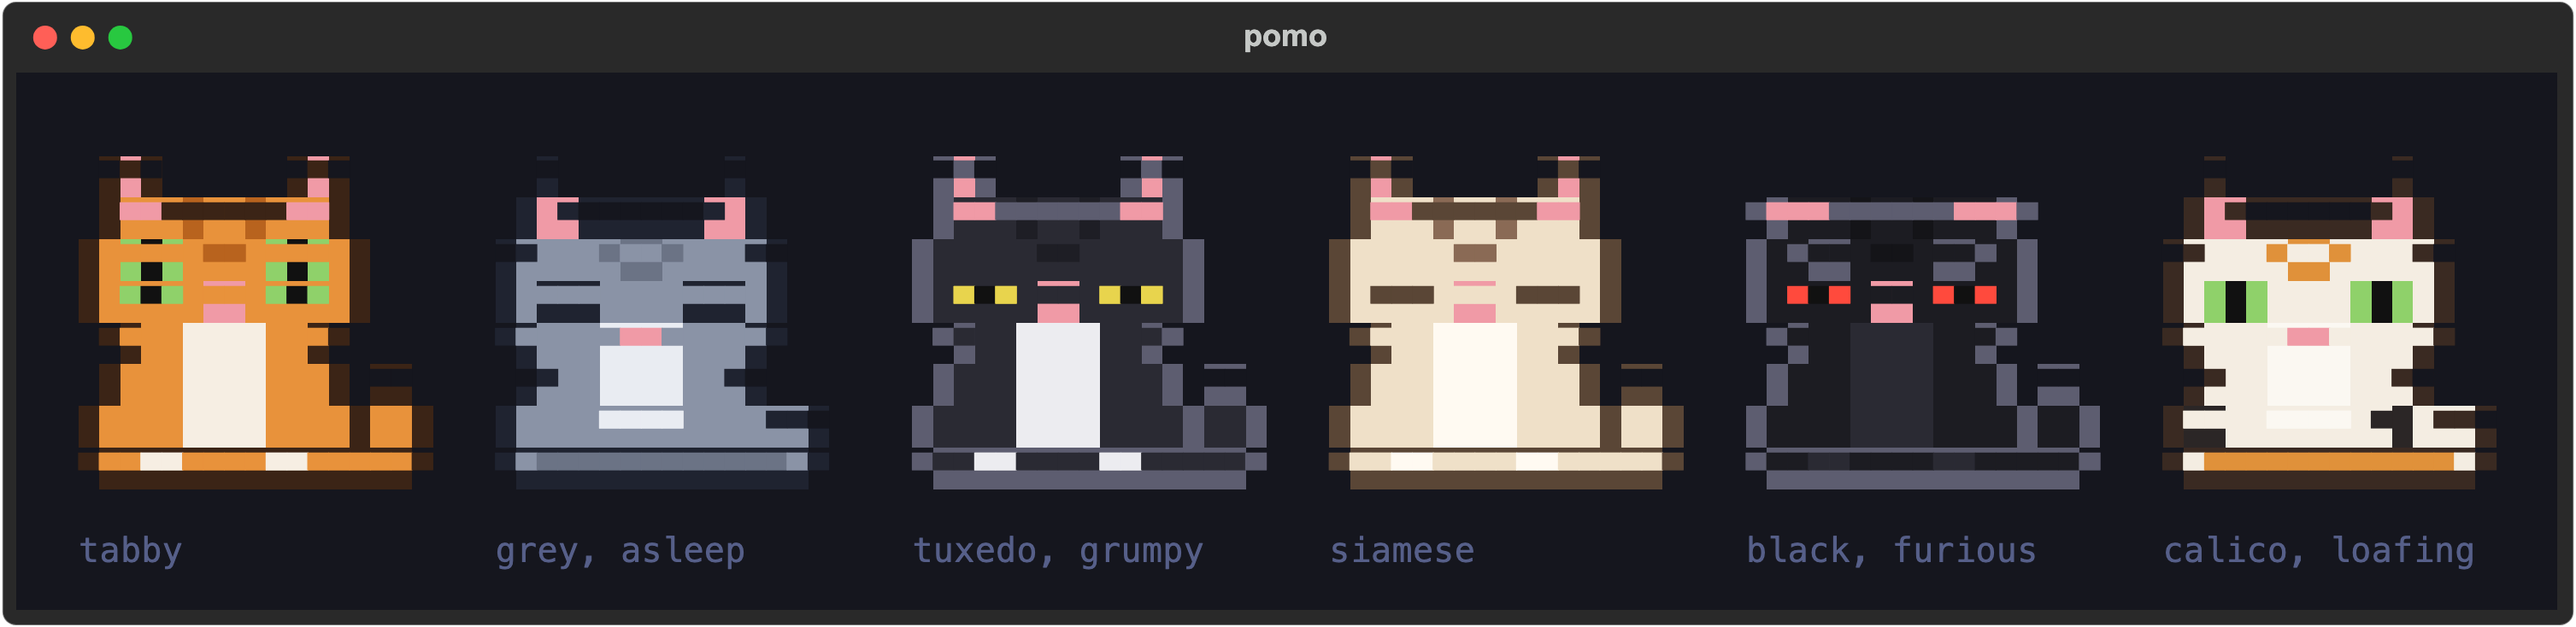
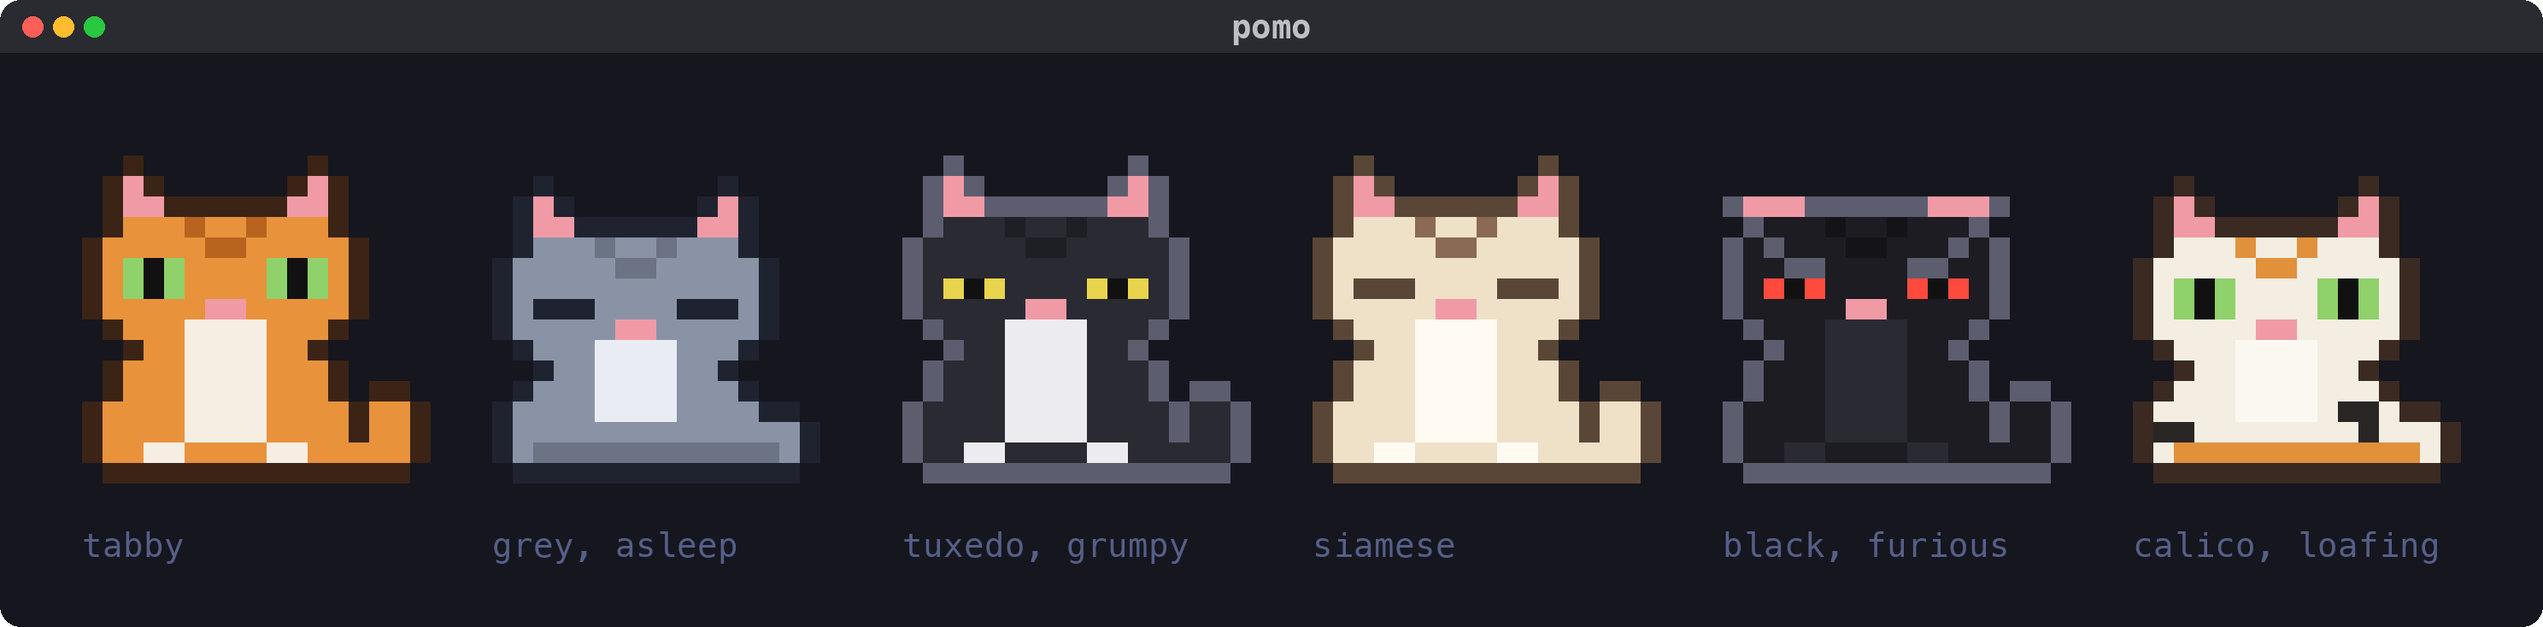
docs: paint the screenshots cell by cell, so the pixel art has no seams
The SVG export drew half-blocks as text, and the rows didn't quite meet: thin lines through every sprite. scripts/screenshots.py now reads the screen as cells and paints them with Pillow, so each half-block is an exact square. No Chrome needed.

diff --git a/scripts/screenshots.py b/scripts/screenshots.py
@@ -1,46 +1,66 @@
 """Render the README's screenshots and GIF from the real app, into docs/images/.
 
-    uv run python scripts/screenshots.py
+    uv run --with pillow python scripts/screenshots.py
 
 Each scene drives PomoApp headlessly with a fake clock and a seeded random number
-generator, so the pictures come out the same every time. Textual exports each frame
-as an SVG, headless Google Chrome turns the SVGs into PNGs, and ffmpeg and gifsicle
-make the GIF. Needs Google Chrome, ffmpeg and gifsicle (brew install ffmpeg gifsicle).
-Nothing here touches your own config or save: no save path is given to the app.
+generator, so the pictures come out the same every time. The screen is read back as
+terminal cells and painted here with Pillow: half-block characters become exact squares
+of colour, so the pixel art has no seams. Text uses Menlo and emoji Apple Color Emoji
+(macOS fonts); gifsicle, if installed, shrinks the GIF. Nothing here touches your own
+config or save: the app is never given a save path.
 """
 
 from __future__ import annotations
 
 import asyncio
+import io
 import random
-import re
 import shutil
 import subprocess
 import sys
-import tempfile
-import time
 from collections.abc import Awaitable, Callable
+from dataclasses import dataclass
+from functools import cache
 from pathlib import Path
 
+from PIL import Image, ImageDraw, ImageFont
+from rich.cells import cell_len
+from rich.console import Console
+from rich.segment import Segment
 from textual.app import App, ComposeResult
 
 import pomo.ui.app as app_module
-from pomo.render import sprites, theme
-from pomo.render.canvas import Canvas
 from pomo.clock import FakeClock
 from pomo.config import Config
 from pomo.game.behavior import Doing
 from pomo.notify import NullNotifier
+from pomo.render import sprites, theme
+from pomo.render.canvas import Canvas
 from pomo.ui.app import PomoApp
 from pomo.ui.stage import Stage
 
 OUT = Path(__file__).resolve().parent.parent / "docs" / "images"
-CHROME = "/Applications/Google Chrome.app/Contents/MacOS/Google Chrome"
 SIZE = (100, 30)
 GIF_FPS = 8
 GIF_SECONDS = 5
+TEXT_FONT = "/System/Library/Fonts/Menlo.ttc"  # face 0 regular, face 1 bold
+EMOJI_FONT = "/System/Library/Fonts/Apple Color Emoji.ttc"
+EMOJI_SIZE = 160  # Apple Color Emoji only comes in a few bitmap sizes
+CHROME = {"bar": (42, 43, 48), "title": (190, 190, 196), "lights": [(255, 95, 87), (254, 188, 46), (40, 200, 64)]}
 
 app_module.TICK_S = 3600.0  # the scenes tick the app themselves, so the real 8 fps interval stays out of it
+
+
+@dataclass(frozen=True)
+class Cell:
+    char: str
+    fg: tuple[int, int, int]
+    bg: tuple[int, int, int]
+    bold: bool
+    width: int  # 1, or 2 for an emoji (which covers the next cell too)
+
+
+Screen = list[list[Cell]]
 
 
 def make_app(seed: int, idle: bool = False) -> tuple[PomoApp, FakeClock]:
@@ -54,14 +74,32 @@ def tick(app: PomoApp, clock: FakeClock, seconds: float, step: float = 0.125) ->
         app.tick()
 
 
-def svg(app) -> str:
-    return app.export_screenshot(title="pomo")
+def screen(app: App) -> Screen:
+    """The whole screen as cells: the same render Textual's own screenshots start from."""
+    width, height = app.size
+    console = Console(width=width, height=height, file=io.StringIO(), force_terminal=True,
+                      color_system="truecolor", record=True, legacy_windows=False, safe_box=False)
+    console.print(app.screen._compositor.render_update(full=True, screen_stack=app._background_screens))
+    rows: Screen = [[]]
+    for segment in Segment.filter_control(console._record_buffer):
+        style = segment.style
+        fg = style.color.get_truecolor() if style and style.color else (255, 255, 255)
+        bg = style.bgcolor.get_truecolor() if style and style.bgcolor else (0, 0, 0)
+        if style and style.reverse:
+            fg, bg = bg, fg
+        for char in segment.text:
+            if char == "\n":
+                continue
+            if sum(c.width for c in rows[-1]) >= width:
+                rows.append([])
+            rows[-1].append(Cell(char, tuple(fg), tuple(bg), bool(style and style.bold), max(1, cell_len(char))))
+    return rows[:height]
 
 
-# --- scenes: each returns SVGs, or None when this seed didn't give a good picture ------
+# --- scenes: each returns screens, or None when this seed didn't give a good picture ------
 
 
-async def focus(seed: int) -> list[str] | None:
+async def focus(seed: int) -> list[Screen] | None:
     """Six minutes into a focus: nap time, and Mango is asleep at the top of the cat tree."""
     app, clock = make_app(seed)
     async with app.run_test(size=SIZE) as pilot:
@@ -71,15 +109,17 @@ async def focus(seed: int) -> list[str] | None:
         if not (body.step and body.step.doing is Doing.NAP and body.surface == "tree_top"):
             return None
         await pilot.pause()
-        return [svg(app)]
+        return [screen(app)]
 
 
-async def play(seed: int) -> list[str] | None:
+async def play(seed: int) -> list[Screen] | None:
     """A break: a yarn ball dropped near the window, and Mango tears after it."""
     app, clock = make_app(seed)
     async with app.run_test(size=SIZE) as pilot:
         await pilot.press("space")
-        tick(app, clock, 25 * 60, step=1.0)  # through the focus: on a break now
+        tick(app, clock, 25 * 60, step=1.0)  # through the focus: the break waits for space
+        await pilot.press("space")
+        app.show_message("")
         mango = app.world.cats[0]
         mango.mood, mango.needs["play"] = 85.0, 90.0  # content, and keen to play
         await pilot.press("2")
@@ -89,7 +129,7 @@ async def play(seed: int) -> list[str] | None:
         for _ in range(GIF_FPS * GIF_SECONDS):
             tick(app, clock, 1 / GIF_FPS)
             await pilot.pause()
-            frames.append(svg(app))
+            frames.append(screen(app))
             cats = app.world.view().cats
             if not cats:
                 return None  # out through the litter door: not much of a picture
@@ -102,7 +142,7 @@ async def play(seed: int) -> list[str] | None:
         return frames if lively else None
 
 
-async def pet(seed: int) -> list[str] | None:
+async def pet(seed: int) -> list[Screen] | None:
     """Idle mode, the hand stroking Mango: eyes shut, purring, a heart floating up."""
     app, clock = make_app(seed, idle=True)
     async with app.run_test(size=SIZE) as pilot:
@@ -114,10 +154,10 @@ async def pet(seed: int) -> list[str] | None:
         await pilot.pause()
         if not app.world.view().effects:
             return None
-        return [svg(app)]
+        return [screen(app)]
 
 
-async def angry(seed: int) -> list[str] | None:
+async def angry(seed: int) -> list[Screen] | None:
     """Rules have teeth: a skipped focus, confirmed, and an already-pissy Mango is furious."""
     app, clock = make_app(seed)
     async with app.run_test(size=SIZE) as pilot:
@@ -131,8 +171,10 @@ async def angry(seed: int) -> list[str] | None:
         cats = app.world.view().cats
         if not cats or cats[0].face != "mad" or app.world.bodies["Mango"].surface != "floor":
             return None
+        app.frame = 0  # the waiting break's clock pulses: catch it lit
+        app.main.stage.redraw()
         await pilot.pause()
-        return [svg(app)]
+        return [screen(app)]
 
 
 CAST = (  # coat, pose, face, label
@@ -159,82 +201,101 @@ class Cast(App[None]):
             canvas.text(x, 11, label, theme.DIM)
 
 
-async def cast(seed: int) -> list[str] | None:
+async def cast(seed: int) -> list[Screen] | None:
     app = Cast()
     async with app.run_test(size=(122, 13)) as pilot:
         await pilot.pause()
-        return [svg(app)]
+        return [screen(app)]
 
 
-# --- rendering ------------------------------------------------------------------------
+# --- painting ---------------------------------------------------------------------------
 
 
-def svg_size(text: str) -> tuple[int, int]:
-    _, _, w, h = (float(n) for n in re.search(r'viewBox="([^"]+)"', text).group(1).split())
-    return round(w), round(h)
+@cache
+def text_font(size: int, bold: bool) -> ImageFont.FreeTypeFont:
+    return ImageFont.truetype(TEXT_FONT, size, index=1 if bold else 0)
 
 
-def render(svgs: list[str], png: Path, scale: int, columns: int = 1) -> tuple[int, int]:
-    """All the SVGs on one page in a grid, one Chrome screenshot of it. Returns one frame's size in pixels."""
-    w, h = svg_size(svgs[0])
-    rows = -(-len(svgs) // columns)
-    with tempfile.TemporaryDirectory() as tmp:
-        for i, text in enumerate(svgs):
-            Path(tmp, f"{i}.svg").write_text(text)
-        cells = "".join(f'<img src="{i}.svg" width="{w}" height="{h}">' for i in range(len(svgs)))
-        page = Path(tmp, "page.html")
-        page.write_text("<html><body style='margin:0;display:grid;"
-                        f"grid-template-columns:repeat({columns},{w}px);line-height:0'>{cells}</body></html>")
-        png.unlink(missing_ok=True)
-        chrome = subprocess.Popen(
-            [CHROME, "--headless=new", "--disable-gpu", "--hide-scrollbars", f"--force-device-scale-factor={scale}",
-             "--default-background-color=00000000", f"--window-size={w * columns},{h * rows}",
-             f"--user-data-dir={tmp}/chrome", f"--screenshot={png}", f"file://{page}"],
-            stdout=subprocess.DEVNULL, stderr=subprocess.DEVNULL,
-        )
-        try:
-            wait_for_file(png)
-        finally:  # headless Chrome doesn't always exit once the screenshot is written
-            chrome.terminate()
-            chrome.wait(timeout=10)
-    return w * scale, h * scale
+@cache
+def emoji(char: str, width: int, height: int) -> Image.Image:
+    """An emoji drawn big in colour, cropped, and scaled down to fit a two-cell box."""
+    font = ImageFont.truetype(EMOJI_FONT, EMOJI_SIZE)
+    big = Image.new("RGBA", (EMOJI_SIZE * 2, EMOJI_SIZE * 2))
+    ImageDraw.Draw(big).text((0, 0), char, font=font, embedded_color=True)
+    big = big.crop(big.getbbox())
+    scale = min(width / big.width, height * 0.8 / big.height)
+    return big.resize((max(1, round(big.width * scale)), max(1, round(big.height * scale))), Image.LANCZOS)
 
 
-def wait_for_file(path: Path, timeout: float = 90.0) -> None:
-    """Until the file exists and has stopped growing."""
-    last, deadline = -1, time.monotonic() + timeout
-    while time.monotonic() < deadline:
-        size = path.stat().st_size if path.exists() else -1
-        if size > 0 and size == last:
-            return
-        last = size
-        time.sleep(0.5)
-    raise SystemExit(f"Chrome didn't write {path.name}")
+def mix(a: tuple, b: tuple, t: float) -> tuple[int, int, int]:
+    return tuple(round(x + (y - x) * t) for x, y in zip(a, b))
 
 
-def make_gif(svgs: list[str], gif: Path) -> None:
-    columns = 8
-    with tempfile.TemporaryDirectory() as tmp:
-        sheet = Path(tmp, "sheet.png")
-        w, h = render(svgs, sheet, scale=1, columns=columns)
-        frames = Path(tmp, "frames")
-        frames.mkdir()
-        for i in range(len(svgs)):
-            x, y = (i % columns) * w, (i // columns) * h
-            subprocess.run(["magick", str(sheet), "-crop", f"{w}x{h}+{x}+{y}", "+repage",
-                            "-background", "#0d1117", "-flatten", "-resize", "900x",
-                            str(frames / f"{i:03d}.png")], check=True)
-        palette = Path(tmp, "palette.png")
-        source = ["-framerate", str(GIF_FPS), "-i", str(frames / "%03d.png")]
-        subprocess.run(["ffmpeg", "-loglevel", "error", "-y", *source, "-vf", "palettegen=max_colors=128", str(palette)],
-                       check=True)
-        raw = Path(tmp, "raw.gif")
-        subprocess.run(["ffmpeg", "-loglevel", "error", "-y", *source, "-i", str(palette),
-                        "-lavfi", "paletteuse=dither=none", "-loop", "0", str(raw)], check=True)
-        subprocess.run(["gifsicle", "-O3", str(raw), "-o", str(gif)], check=True)
+def paint(rows: Screen, cw: int) -> Image.Image:
+    """The cells as an image: cw pixels per column and twice that per row, so a half-block is a square."""
+    ch = cw * 2
+    image = Image.new("RGB", (sum(c.width for c in rows[0]) * cw, len(rows) * ch))
+    draw = ImageDraw.Draw(image)
+    for y, row in enumerate(rows):
+        x, top = 0, y * ch
+        for cell in row:
+            box = (x, top, x + cell.width * cw - 1, top + ch - 1)
+            if cell.char == "▀":
+                draw.rectangle(box, fill=cell.bg)
+                draw.rectangle((x, top, box[2], top + cw - 1), fill=cell.fg)
+            elif cell.char == "▄":
+                draw.rectangle(box, fill=cell.bg)
+                draw.rectangle((x, top + cw, box[2], box[3]), fill=cell.fg)
+            elif cell.char == "█":
+                draw.rectangle(box, fill=cell.fg)
+            elif cell.char == "░":
+                draw.rectangle(box, fill=mix(cell.bg, cell.fg, 0.3))
+            else:
+                draw.rectangle(box, fill=cell.bg)
+                if cell.width == 2:
+                    glyph = emoji(cell.char, 2 * cw, ch)
+                    image.paste(glyph, (x + (2 * cw - glyph.width) // 2, top + (ch - glyph.height) // 2), glyph)
+                elif cell.char != " ":
+                    font = text_font(round(cw * 1.62), cell.bold)
+                    draw.text((x + cw / 2, top + ch / 2), cell.char, font=font, fill=cell.fg, anchor="mm")
+            x += cell.width * cw
+    return image
 
 
-async def first_good(scene: Callable[[int], Awaitable[list[str] | None]]) -> list[str]:
+def window(content: Image.Image, cw: int, title: str = "pomo", rounded: bool = True) -> Image.Image:
+    """A macOS-style window around the terminal: a title bar with traffic lights, rounded corners."""
+    pad, bar, radius = cw, round(cw * 2.6), (cw if rounded else 0)
+    w, h = content.width + 2 * pad, content.height + 2 * pad + bar
+    frame = Image.new("RGBA", (w, h), (0, 0, 0, 0))
+    draw = ImageDraw.Draw(frame)
+    draw.rounded_rectangle((0, 0, w - 1, h - 1), radius=radius, fill=theme.ROOM_BG)
+    draw.rounded_rectangle((0, 0, w - 1, bar + radius), radius=radius, fill=CHROME["bar"])
+    draw.rectangle((0, bar, w - 1, bar + radius), fill=theme.ROOM_BG)
+    for i, color in enumerate(CHROME["lights"]):
+        r, cx = cw * 0.5, cw * (1.6 + i * 1.5)
+        draw.ellipse((cx - r, bar / 2 - r, cx + r, bar / 2 + r), fill=color)
+    draw.text((w / 2, bar / 2), title, font=text_font(round(cw * 1.62), True), fill=CHROME["title"], anchor="mm")
+    frame.paste(content, (pad, bar + pad))
+    return frame
+
+
+def save_png(rows: Screen, path: Path, cw: int = 24) -> None:
+    window(paint(rows, cw), cw).save(path, optimize=True)
+
+
+def save_gif(frames: list[Screen], path: Path, cw: int = 9) -> None:
+    images = [window(paint(rows, cw), cw, rounded=False).convert("RGB") for rows in frames]
+    sheet = Image.new("RGB", (images[0].width, images[0].height * len(images)))
+    for i, image in enumerate(images):
+        sheet.paste(image, (0, i * image.height))
+    palette = sheet.quantize(colors=255, method=Image.Quantize.MEDIANCUT)
+    quantized = [image.quantize(palette=palette, dither=Image.Dither.NONE) for image in images]
+    quantized[0].save(path, save_all=True, append_images=quantized[1:], duration=round(1000 / GIF_FPS), loop=0)
+    if shutil.which("gifsicle"):
+        subprocess.run(["gifsicle", "-O3", "--batch", str(path)], check=True)
+
+
+async def first_good(scene: Callable[[int], Awaitable[list[Screen] | None]]) -> list[Screen]:
     for seed in range(100):
         frames = await scene(seed)
         if frames:
@@ -244,15 +305,13 @@ async def first_good(scene: Callable[[int], Awaitable[list[str] | None]]) -> lis
 
 
 async def main() -> None:
-    for tool in ("magick", "ffmpeg", "gifsicle"):
-        if not shutil.which(tool):
-            raise SystemExit(f"needs {tool}: brew install ffmpeg gifsicle imagemagick")
-    if not Path(CHROME).exists():
-        raise SystemExit(f"needs Google Chrome at {CHROME}")
+    for font in (TEXT_FONT, EMOJI_FONT):
+        if not Path(font).exists():
+            raise SystemExit(f"needs the macOS font {font}")
     OUT.mkdir(parents=True, exist_ok=True)
     for scene in (focus, pet, angry, cast):
-        render(await first_good(scene), OUT / f"{scene.__name__}.png", scale=2)
-    make_gif(await first_good(play), OUT / "play.gif")
+        save_png((await first_good(scene))[0], OUT / f"{scene.__name__}.png")
+    save_gif(await first_good(play), OUT / "play.gif")
     for image in sorted(OUT.iterdir()):
         print(f"  {image.name}: {image.stat().st_size // 1024} KB")
 

diff --git a/README.md b/README.md
@@ -155,7 +155,7 @@ cd pomodoro-timer-tui-cats
 uv sync
 uv run pytest                          # the whole suite, in about 15 seconds
 uv run pomo --gallery                  # every sprite, for tuning the art
-uv run python scripts/screenshots.py   # redraw the pictures in this README
+uv run --with pillow python scripts/screenshots.py   # redraw the pictures in this README
 ```
 
 `uv tool install --editable .` puts a `pomo` on your PATH that always runs your working copy.
